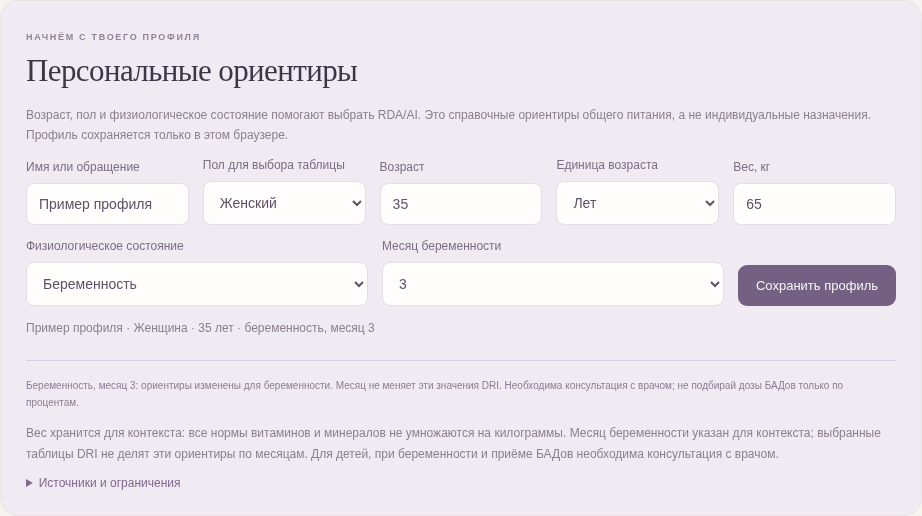
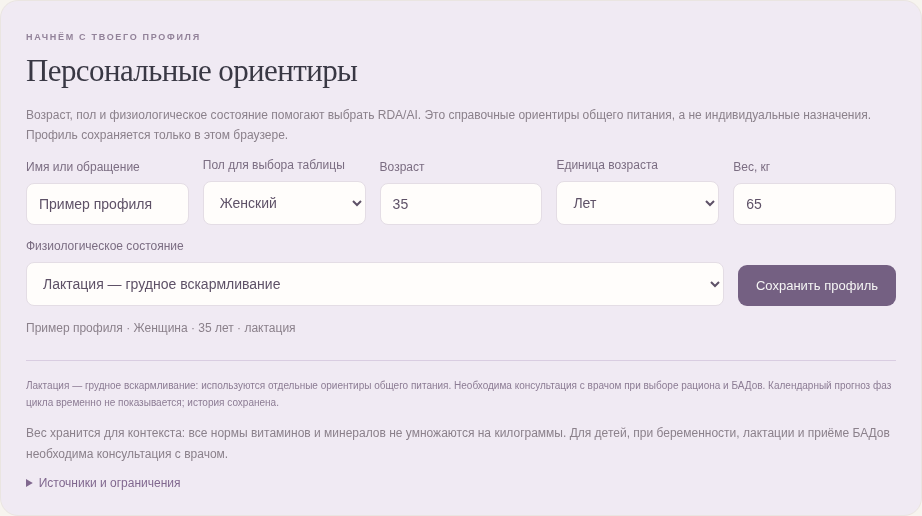
Replace pregnancy month with lactation profile and dietary references

diff --git a/app.js b/app.js
@@ -23,7 +23,7 @@ $('#today').textContent=new Date().toLocaleDateString('ru',{weekday:'long',day:'
 $('#period-start').max=today;$('#period-start').value=today;$('#food-date').value=today;
 $('#cycle-length').value=state.cycleLength;$('#period-length').value=state.periodLength;
 const phases={menstrual:{name:'Менструация',food:'Включай источники железа: бобовые, мясо, зелень. Витамин C помогает усвоению растительного железа.',move:'Прогулка, мягкая растяжка или привычная тренировка по самочувствию. Отдых тоже подходит.',care:'Замечай боль, интенсивность кровотечения и усталость. Сильная боль не должна становиться привычной.'},follicular:{name:'Фолликулярная фаза',food:'Разнообразный рацион: овощи, цельные злаки, белок и полезные жиры. Специальная диета по фазе не обязательна.',move:'Если энергии достаточно, постепенно увеличивай нагрузку. Выбирай то, что нравится.',care:'Отмечай изменения энергии и настроения — твой личный опыт полезнее универсального расписания.'},ovulation:{name:'Овуляция · ориентировочно',food:'Продолжай привычное сбалансированное питание и пей по жажде. Особые продукты для овуляции не нужны.',move:'Ориентируйся на восстановление и привычный уровень нагрузки. Фаза сама по себе не требует рекордов.',care:'Это только оценка по длине цикла, а не подтверждённая овуляция или надёжное «фертильное окно».'},luteal:{name:'Лютеиновая фаза',food:'Регулярные приёмы пищи, клетчатка и белок помогают насыщению. Допустимо учитывать изменения аппетита.',move:'При усталости снизь интенсивность, выбери ходьбу, йогу или отдых. Если чувствуешь себя хорошо, сохраняй обычную активность.',care:'Отмечай сон, настроение и симптомы ПМС. Если они мешают обычной жизни, обсуди это с врачом.'}};
-function phaseAt(date){if(state.profile?.status==='pregnant')return null;const starts=state.periods.filter(s=>s<=date).sort();if(!starts.length)return null;const base=starts.at(-1);const elapsed=dayDiff(date,base);const day=elapsed%state.cycleLength+1;const ov=Math.max(state.periodLength+2,state.cycleLength-14);const key=day<=state.periodLength?'menstrual':day<ov-1?'follicular':day<=ov+1?'ovulation':'luteal';return {key,day,projected:elapsed>=state.cycleLength};}
+function phaseAt(date){if(['pregnant','lactating'].includes(state.profile?.status))return null;const starts=state.periods.filter(s=>s<=date).sort();if(!starts.length)return null;const base=starts.at(-1);const elapsed=dayDiff(date,base);const day=elapsed%state.cycleLength+1;const ov=Math.max(state.periodLength+2,state.cycleLength-14);const key=day<=state.periodLength?'menstrual':day<ov-1?'follicular':day<=ov+1?'ovulation':'luteal';return {key,day,projected:elapsed>=state.cycleLength};}
 function textEl(tag,text,cls){const el=document.createElement(tag);el.textContent=text;if(cls)el.className=cls;return el;}
 function removeButton(label,fn){const b=textEl('button','×');b.type='button';b.setAttribute('aria-label',label);b.onclick=fn;return b;}
 function renderCycle(){
@@ -166,13 +166,13 @@ function renderSupplements(){const date=$('#food-date').value;const records=stat
 
 function profileAge(p=state.profile){return LunaDRI.ageYears(p);}
 function reference(key,p=state.profile){return LunaDRI.get(key,p);}
-function profileLabel(){const p=state.profile;if(!p)return 'Профиль не заполнен';const age=profileAge();const stage=age<1?'Младенец':age<14?'Ребёнок':age<19?'Подросток':p.sex==='male'?'Мужчина':'Женщина';return `${p.name} · ${stage} · ${p.age} ${p.ageUnit==='months'?'мес.':'лет'}${p.status==='pregnant'?` · беременность, месяц ${p.month}`:p.status==='planning'?' · планирование беременности':''}`;}
-function updateProfileFields(){const sex=$('#profile-sex').value;const age=Number($('#profile-age').value);const years=$('#profile-age-unit').value==='months'?age/12:age;const reproductive=sex==='female'&&years>=10;$('#profile-status-label').hidden=!reproductive;if(!reproductive)$('#profile-status').value='none';const pregnant=reproductive&&$('#profile-status').value==='pregnant';$('#profile-month-label').hidden=!pregnant;$('#profile-month').required=pregnant;$('#profile-age').max=$('#profile-age-unit').value==='months'?'23':'120';}
-if(state.profile){for(const [key,id]of [['name','name'],['sex','sex'],['age','age'],['ageUnit','age-unit'],['weight','weight'],['status','status'],['month','month']]){const input=$('#profile-'+id);if(state.profile[key]!==undefined&&state.profile[key]!==null)input.value=state.profile[key];}}
+function profileLabel(){const p=state.profile;if(!p)return 'Профиль не заполнен';const age=profileAge();const stage=age<1?'Младенец':age<14?'Ребёнок':age<19?'Подросток':p.sex==='male'?'Мужчина':'Женщина';return `${p.name} · ${stage} · ${p.age} ${p.ageUnit==='months'?'мес.':'лет'}${p.status==='pregnant'?' · беременность':p.status==='lactating'?' · лактация':p.status==='planning'?' · планирование беременности':''}`;}
+function updateProfileFields(){const sex=$('#profile-sex').value;const age=Number($('#profile-age').value);const years=$('#profile-age-unit').value==='months'?age/12:age;const reproductive=sex==='female'&&years>=10;$('#profile-status-label').hidden=!reproductive;if(!reproductive)$('#profile-status').value='none';$('#profile-age').max=$('#profile-age-unit').value==='months'?'23':'120';}
+if(state.profile){for(const [key,id]of [['name','name'],['sex','sex'],['age','age'],['ageUnit','age-unit'],['weight','weight'],['status','status']]){const input=$('#profile-'+id);if(state.profile[key]!==undefined&&state.profile[key]!==null)input.value=state.profile[key];}}
 for(const id of ['sex','age','age-unit','status'])$('#profile-'+id).addEventListener('change',updateProfileFields);updateProfileFields();
-$('#profile-form').onsubmit=e=>{e.preventDefault();const profile={name:$('#profile-name').value.trim(),sex:$('#profile-sex').value,age:Number($('#profile-age').value),ageUnit:$('#profile-age-unit').value,weight:Number($('#profile-weight').value),status:$('#profile-status').value,month:$('#profile-month').value?Number($('#profile-month').value):null,updated:today};let error='';const age=LunaDRI.ageYears(profile);if(!profile.name||age===null||!['female','male'].includes(profile.sex)||!Number.isFinite(profile.weight)||profile.weight<=0||profile.weight>500)error='Проверь имя, пол, возраст и вес. Для ребёнка младше года укажи возраст в месяцах.';if(profile.sex!=='female'||age<10){profile.status='none';profile.month=null;}if(profile.status==='pregnant'&&(!Number.isInteger(profile.month)||profile.month<1||profile.month>9))error='Укажи месяц беременности от 1 до 9.';if(profile.status!=='pregnant')profile.month=null;$('#profile-error').textContent=error;if(error)return;state.profile=profile;save();};
-function renderProfile(){const p=state.profile;$('#profile-summary').textContent=p?profileLabel():'Заполни анкету, чтобы увидеть персональные ориентиры. Без профиля проценты не рассчитываются.';$('#nutrition-profile-context').textContent=p?`${profileLabel()}. Ориентиры RDA/AI общего поступления из еды и БАДов. К дневнику любого дня применяется текущий профиль.`:'Без анкеты показываем количество нутриентов, без предположений о возрасте, поле и без процентов.';let advice='Для выбора БАДов и индивидуальных доз необходима консультация с врачом. RDA/AI не являются верхними допустимыми уровнями.';if(p){const age=profileAge();if(p.status==='pregnant')advice=age<14||age>50?'Для этого возраста беременности автоматические ориентиры не назначаются. Необходима консультация с врачом.':`Беременность, месяц ${p.month}: ориентиры изменены для беременности. Месяц не меняет эти значения DRI. Необходима консультация с врачом; не подбирай дозы БАДов только по процентам.`;else if(p.status==='planning')advice='Планирование беременности: используются ориентиры для небеременных. Обсуди фолаты, йод и принимаемые добавки с врачом до беременности; не применяй нормы беременности заранее.';else if(age<1)advice='Для младенца показаны доступные RDA/AI по возрасту в месяцах. Прикорм, рацион и любые добавки требуют консультации с педиатром. Если ориентир не установлен, процента нет.';else if(age<19)advice='Используются возрастные ориентиры ребёнка или подростка. Рацион и приём добавок необходимо обсуждать с педиатром; взрослые нормы не применяются.';}
- $('#profile-advice').textContent=advice;const cycleVisible=!p||(p.sex==='female'&&profileAge()>=9&&p.status!=='pregnant');$('#cycle').hidden=!cycleVisible;document.querySelector('nav a[href="#cycle"]').hidden=!cycleVisible;document.querySelector('.overview a[href="#cycle"]').hidden=!cycleVisible;}
+$('#profile-form').onsubmit=e=>{e.preventDefault();const profile={name:$('#profile-name').value.trim(),sex:$('#profile-sex').value,age:Number($('#profile-age').value),ageUnit:$('#profile-age-unit').value,weight:Number($('#profile-weight').value),status:$('#profile-status').value,updated:today};let error='';const age=LunaDRI.ageYears(profile);if(!profile.name||age===null||!['female','male'].includes(profile.sex)||!Number.isFinite(profile.weight)||profile.weight<=0||profile.weight>500)error='Проверь имя, пол, возраст и вес. Для ребёнка младше года укажи возраст в месяцах.';if(profile.sex!=='female'||age<10){profile.status='none';}$('#profile-error').textContent=error;if(error)return;state.profile=profile;save();};
+function renderProfile(){const p=state.profile;$('#profile-summary').textContent=p?profileLabel():'Заполни анкету, чтобы увидеть персональные ориентиры. Без профиля проценты не рассчитываются.';$('#nutrition-profile-context').textContent=p?`${profileLabel()}. Ориентиры RDA/AI общего поступления из еды и БАДов. К дневнику любого дня применяется текущий профиль.`:'Без анкеты показываем количество нутриентов, без предположений о возрасте, поле и без процентов.';let advice='Для выбора БАДов и индивидуальных доз необходима консультация с врачом. RDA/AI не являются верхними допустимыми уровнями.';if(p){const age=profileAge();if(p.status==='pregnant')advice=age<14||age>50?'Для этого возраста беременности автоматические ориентиры не назначаются. Необходима консультация с врачом.':'Беременность: используются отдельные ориентиры общего питания. Необходима консультация с врачом; не подбирай дозы БАДов только по процентам.';else if(p.status==='lactating')advice=age<14||age>50?'Для этого возраста при лактации автоматические ориентиры не назначаются. Необходима консультация с врачом.':'Лактация — грудное вскармливание: используются отдельные ориентиры общего питания. Необходима консультация с врачом при выборе рациона и БАДов. Календарный прогноз фаз цикла временно не показывается; история сохранена.';else if(p.status==='planning')advice='Планирование беременности: используются ориентиры для небеременных. Обсуди фолаты, йод и принимаемые добавки с врачом до беременности; не применяй нормы беременности заранее.';else if(age<1)advice='Для младенца показаны доступные RDA/AI по возрасту в месяцах. Прикорм, рацион и любые добавки требуют консультации с педиатром. Если ориентир не установлен, процента нет.';else if(age<19)advice='Используются возрастные ориентиры ребёнка или подростка. Рацион и приём добавок необходимо обсуждать с педиатром; взрослые нормы не применяются.';}
+ $('#profile-advice').textContent=advice;const cycleVisible=!p||(p.sex==='female'&&profileAge()>=9&&!['pregnant','lactating'].includes(p.status));$('#cycle').hidden=!cycleVisible;document.querySelector('nav a[href="#cycle"]').hidden=!cycleVisible;document.querySelector('.overview a[href="#cycle"]').hidden=!cycleVisible;}
 function renderSalt(entries,foodTotals,unknown,date){const supplements=dailySupplementTotals(date);const sodium=foodTotals.sodium+supplements.totals.sodium;const missing=unknown.sodium>0||supplements.unconverted.sodium>0;const allUnknown=entries.length>0&&unknown.sodium===entries.length&&supplements.totals.sodium===0;const text=allUnknown?'Нет данных о натрии для расчёта соли':`${numeric(sodium*2.5/1000)} г${missing?' + ?':''}`;const box=$('#salt-summary');box.replaceChildren(textEl('strong','Соль · натрий и хлориды'),textEl('div',`Солевой эквивалент по известному натрию: ${text}.`),textEl('div','1 г натрия ≈ 2,5 г солевого эквивалента. Натрий и хлориды не складываются и не считаются автоматически чистым NaCl.'));if(profileAge()>=18)box.append(textEl('div','Ориентир ВОЗ для взрослых — менее 5 г соли в сутки; это ограничение, а не цель потребления.'));else if(state.profile)box.append(textEl('div','Взрослый предел соли не применяется к ребёнку. Питание ребёнка обсуждай с педиатром.'));}
 
 $('#water-container').value=state.waterSettings.container;

diff --git a/index.html b/index.html
@@ -1,7 +1,7 @@
 <!doctype html>
 <html lang="ru"><head><meta charset="utf-8"><meta name="viewport" content="width=device-width, initial-scale=1"><meta name="theme-color" content="#f7f4ef"><meta name="description" content="Луна — дневник цикла, сна и питания"><link rel="manifest" href="./manifest.webmanifest"><link rel="icon" href="./icon.svg"><link rel="apple-touch-icon" href="./icon-192.png"><link rel="stylesheet" href="./style.css"><title>Луна — в своём ритме</title></head>
 <body><div class="layout"><aside class="sidebar"><a class="logo" href="#home"><span>☾</span> луна<span class="logo-dot">.</span></a><p class="tagline">В СВОЁМ РИТМЕ</p><nav aria-label="Разделы"><a href="#home">◌ <span>Мой день</span></a><a href="#cycle">✿ <span>Мой цикл</span></a><a href="#sleep">☾ <span>Сон и отдых</span></a><a href="#food">♧ <span>Питание</span></a></nav><div class="sidebar-note">Место, где можно<br>прислушаться к себе.<span>Твои данные остаются<br>в этом браузере.</span></div></aside>
-<main id="home"><header><span id="today"></span><span class="badge" id="connection">На связи</span></header><section id="profile" class="card profile-card"><span class="eyebrow">НАЧНЁМ С ТВОЕГО ПРОФИЛЯ</span><h2>Персональные ориентиры</h2><p class="fine">Возраст, пол и физиологическое состояние помогают выбрать RDA/AI. Это справочные ориентиры общего питания, а не индивидуальные назначения. Профиль сохраняется только в этом браузере.</p><form id="profile-form"><label>Имя или обращение<input id="profile-name" maxlength="60" required autocomplete="given-name"></label><label>Пол для выбора таблицы<select id="profile-sex" required><option value="">Выбрать</option><option value="female">Женский</option><option value="male">Мужской</option></select></label><label>Возраст<input id="profile-age" type="number" min="0" max="120" step="1" required></label><label>Единица возраста<select id="profile-age-unit"><option value="years">Лет</option><option value="months">Месяцев (до 2 лет)</option></select></label><label>Вес, кг<input id="profile-weight" type="number" min="0.1" max="500" step="0.1" required></label><label id="profile-status-label" hidden>Физиологическое состояние<select id="profile-status"><option value="none">Не беременна</option><option value="planning">Планирование беременности</option><option value="pregnant">Беременность</option></select></label><label id="profile-month-label" hidden>Месяц беременности<select id="profile-month"><option value="">Выбрать</option><option>1</option><option>2</option><option>3</option><option>4</option><option>5</option><option>6</option><option>7</option><option>8</option><option>9</option></select></label><button type="submit">Сохранить профиль</button></form><p id="profile-error" class="error" role="alert"></p><p id="profile-summary" class="fine" role="status">Заполни анкету, чтобы увидеть персональные ориентиры. Без профиля проценты не рассчитываются.</p><p id="profile-advice" class="callout"></p><p class="fine">Вес хранится для контекста: все нормы витаминов и минералов не умножаются на килограммы. Месяц беременности указан для контекста; выбранные таблицы DRI не делят эти ориентиры по месяцам. Для детей, при беременности и приёме БАДов необходима консультация с врачом.</p><details><summary>Источники и ограничения</summary><p class="fine">Справочные таблицы DRI (RDA/AI), для натрия и калия — обновление 2019 года. Это не верхние допустимые уровни и не лабораторная оценка обеспеченности. Для беременности вне диапазона 14–50 лет автоматические ориентиры не назначаются. Показатели питания не заменяют медицинское наблюдение. Лактация, заболевания, курение и индивидуальные назначения в этой версии не учитываются.</p><a class="text-link" href="https://ods.od.nih.gov/HealthInformation/nutrientrecommendations.aspx" target="_blank" rel="noopener">Таблицы DRI ↗</a></details></section>
+<main id="home"><header><span id="today"></span><span class="badge" id="connection">На связи</span></header><section id="profile" class="card profile-card"><span class="eyebrow">НАЧНЁМ С ТВОЕГО ПРОФИЛЯ</span><h2>Персональные ориентиры</h2><p class="fine">Возраст, пол и физиологическое состояние помогают выбрать RDA/AI. Это справочные ориентиры общего питания, а не индивидуальные назначения. Профиль сохраняется только в этом браузере.</p><form id="profile-form"><label>Имя или обращение<input id="profile-name" maxlength="60" required autocomplete="given-name"></label><label>Пол для выбора таблицы<select id="profile-sex" required><option value="">Выбрать</option><option value="female">Женский</option><option value="male">Мужской</option></select></label><label>Возраст<input id="profile-age" type="number" min="0" max="120" step="1" required></label><label>Единица возраста<select id="profile-age-unit"><option value="years">Лет</option><option value="months">Месяцев (до 2 лет)</option></select></label><label>Вес, кг<input id="profile-weight" type="number" min="0.1" max="500" step="0.1" required></label><label id="profile-status-label" hidden>Физиологическое состояние<select id="profile-status"><option value="none">Не беременна</option><option value="planning">Планирование беременности</option><option value="pregnant">Беременность</option><option value="lactating">Лактация — грудное вскармливание</option></select></label><button type="submit">Сохранить профиль</button></form><p id="profile-error" class="error" role="alert"></p><p id="profile-summary" class="fine" role="status">Заполни анкету, чтобы увидеть персональные ориентиры. Без профиля проценты не рассчитываются.</p><p id="profile-advice" class="callout"></p><p class="fine">Вес хранится для контекста: все нормы витаминов и минералов не умножаются на килограммы. Для детей, при беременности, лактации и приёме БАДов необходима консультация с врачом.</p><details><summary>Источники и ограничения</summary><p class="fine">Справочные таблицы DRI (RDA/AI), для натрия и калия — обновление 2019 года. Это не верхние допустимые уровни и не лабораторная оценка обеспеченности. Для беременности и лактации вне диапазона 14–50 лет автоматические ориентиры не назначаются. Показатели питания не заменяют медицинское наблюдение. Заболевания, курение и индивидуальные назначения в этой версии не учитываются.</p><a class="text-link" href="https://ods.od.nih.gov/HealthInformation/nutrientrecommendations.aspx" target="_blank" rel="noopener">Таблицы DRI ↗</a></details></section>
 <section class="welcome"><span class="eyebrow">НЕМНОГО ВНИМАНИЯ К СЕБЕ</span><h1>Твой ритм.<br>Твоё самочувствие<span>.</span></h1><p>Наблюдай за своим телом — бережно, без спешки и ожиданий.</p></section>
 <div class="overview"><a href="#cycle" class="mini pink"><span>МОЙ ЦИКЛ →</span><strong id="cycle-summary">Познакомимся?</strong><p id="cycle-sub">Отметь начало последней менструации</p></a><a href="#sleep" class="mini lavender"><span>СОН И ОТДЫХ →</span><strong id="sleep-summary">Время отдохнуть</strong><p id="sleep-sub">Ночной сон и маленькие паузы днём</p></a><a href="#food" class="mini green"><span>ПИТАНИЕ →</span><strong id="food-summary">Забота в тарелке</strong><p>Питательные вещества, а не строгие правила</p></a></div>
 <section id="cycle" class="section"><div class="section-title"><div><span class="eyebrow">01 / ПРИСЛУШАТЬСЯ К ТЕЛУ</span><h2>Мой цикл</h2></div><span class="pill">Каждый цикл индивидуален</span></div><div class="cycle-grid"><article class="card"><div class="calendar-title"><button id="prev-month" aria-label="Предыдущий месяц" class="icon-button">←</button><h3 id="month-title"></h3><button id="next-month" aria-label="Следующий месяц" class="icon-button">→</button></div><div class="weekdays" aria-hidden="true"><span>ПН</span><span>ВТ</span><span>СР</span><span>ЧТ</span><span>ПТ</span><span>СБ</span><span>ВС</span></div><div id="calendar" class="calendar" aria-label="Календарь цикла"></div><div class="legend"><span><i class="menstrual"></i>Менструация</span><span><i class="follicular"></i>Фолликулярная</span><span><i class="ovulation"></i>Овуляция ≈</span><span><i class="luteal"></i>Лютеиновая</span></div><p class="fine">Цвета — расчётная схема, а не подтверждение фаз. Менструация биологически входит в фолликулярную фазу.</p></article><article class="card phase-card"><span class="eyebrow" id="selected-date"></span><h3 id="phase-title">У каждого тела свой ритм</h3><p id="phase-description">Добавь дату начала менструации. Здесь появятся примерный день цикла и мягкие подсказки.</p><div id="phase-tips"></div><div class="callout">Прогноз по датам не подтверждает овуляцию и не подходит для контрацепции. При нерегулярном цикле, беременности и гормональной контрацепции он может быть неприменим.</div></article></div>

diff --git a/norms.js b/norms.js
@@ -40,9 +40,11 @@
  };
  // Pregnancy columns: 14–18, 19–30, 31–50. These references do not vary by month.
  const pregnancy={calcium:[1300,1000,1000],magnesium:[400,350,360],potassium:[2600,2900,2900],phosphorus:[1250,700,700],iron:[27,27,27],zinc:[12,11,11],c:[80,85,85],b12:[2.6,2.6,2.6],folate:[600,600,600],fiber:[28,28,28],a:[750,770,770],d:[15,15,15],e:[15,15,15],k:[75,90,90],b1:[1.4,1.4,1.4],b2:[1.4,1.4,1.4],b3:[18,18,18],b5:[6,6,6],b6:[1.9,1.9,1.9],iodine:[220,220,220],copper:[1000,1000,1000],manganese:[2,2,2],selenium:[60,60,60],choline:[450,450,450],sodium:[1500,1500,1500],chloride:[2300,2300,2300],fluoride:[3,3,3],molybdenum:[50,50,50],chromium:[29,30,30],ala:[1.4,1.4,1.4],la:[13,13,13],biotin:[30,30,30]};
+ // Lactation columns: 14–18, 19–30, 31–50 years; not supplement doses.
+ const lactation={calcium:[1300,1000,1000],magnesium:[360,310,320],potassium:[2500,2800,2800],phosphorus:[1250,700,700],iron:[10,9,9],zinc:[13,12,12],c:[115,120,120],b12:[2.8,2.8,2.8],folate:[500,500,500],fiber:[29,29,29],a:[1200,1300,1300],d:[15,15,15],e:[19,19,19],k:[75,90,90],b1:[1.4,1.4,1.4],b2:[1.6,1.6,1.6],b3:[17,17,17],b5:[7,7,7],b6:[2,2,2],iodine:[290,290,290],copper:[1300,1300,1300],manganese:[2.6,2.6,2.6],selenium:[70,70,70],choline:[550,550,550],sodium:[1500,1500,1500],chloride:[2300,2300,2300],fluoride:[3,3,3],molybdenum:[50,50,50],chromium:[44,45,45],ala:[1.3,1.3,1.3],la:[13,13,13],biotin:[35,35,35]};
  const ai=new Set(['fiber','k','b5','biotin','potassium','sodium','chloride','fluoride','chromium','manganese','choline','ala','la']);
  function ageYears(p){if(!p||!Number.isInteger(p.age)||p.age<0||!['years','months'].includes(p.ageUnit))return null;if(p.ageUnit==='months')return p.age<=23?p.age/12:null;return p.age>=1&&p.age<=120?p.age:null;}
  function group(p){const age=ageYears(p);if(age===null||!['female','male'].includes(p.sex))return null;if(age<1)return p.age<=6?0:1;return age<4?2:age<9?3:age<14?4:age<19?5:age<31?6:age<51?7:age<71?8:9;}
- function get(key,p){const g=group(p);if(g===null||!rows[key]||(key==='b3'&&g===0))return null;let value;if(p.status==='pregnant'){const age=ageYears(p);if(p.sex!=='female'||age<14||age>50)return null;value=pregnancy[key]?.[age<19?0:age<31?1:2]??null;}else{const raw=rows[key][g];value=Array.isArray(raw)?raw[p.sex==='male'?0:1]:raw;}if(value===null||value===undefined)return null;return {value,type:g===0||(g===1&&!['iron','zinc'].includes(key))||ai.has(key)?'AI':'RDA'};}
- globalThis.LunaDRI=Object.freeze({get,ageYears,group,keys:Object.freeze(Object.keys(rows)),version:'DRI-reference-v1-NaK2019'});
+ function get(key,p){const g=group(p);if(g===null||!rows[key]||(key==='b3'&&g===0)||!['none','planning','pregnant','lactating'].includes(p.status??'none'))return null;let value;if(['pregnant','lactating'].includes(p.status)){const age=ageYears(p);if(p.sex!=='female'||age<14||age>50)return null;value=(p.status==='pregnant'?pregnancy:lactation)[key]?.[age<19?0:age<31?1:2]??null;}else{const raw=rows[key][g];value=Array.isArray(raw)?raw[p.sex==='male'?0:1]:raw;}if(value===null||value===undefined)return null;return {value,type:g===0||(g===1&&!['iron','zinc'].includes(key))||ai.has(key)?'AI':'RDA'};}
+ globalThis.LunaDRI=Object.freeze({get,ageYears,group,keys:Object.freeze(Object.keys(rows)),version:'DRI-reference-v2-NaK2019-lactation'});
 })();

diff --git a/sw.js b/sw.js
@@ -1,4 +1,4 @@
-const CACHE='luna-diary-v8';
+const CACHE='luna-diary-v9';
 const ASSETS=['./','./index.html','./style.css','./app.js','./norms.js','./manifest.webmanifest','./icon.svg','./icon-192.png','./icon-512.png'];
 self.addEventListener('install',event=>{event.waitUntil(caches.open(CACHE).then(cache=>cache.addAll(ASSETS)).then(()=>self.skipWaiting()));});
 self.addEventListener('activate',event=>{event.waitUntil(caches.keys().then(keys=>Promise.all(keys.filter(key=>(key.startsWith('little-steps-')||key.startsWith('luna-diary-'))&&key!==CACHE).map(key=>caches.delete(key)))).then(()=>self.clients.claim()));});

diff --git a/tests/supplements_smoke.py b/tests/supplements_smoke.py
@@ -27,11 +27,17 @@ with sync_playwright() as p:
  for key in ['ala','la','omega6','epa','dha']:
   assert page.locator(f'#supplement-nutrient option[value="{key}"]').count()==0
  assert page.locator('#supplement-nutrient option[value="omega3"]').count()==1
- def profile(age,sex='female',status='none',month=None,unit='years'):
+ assert page.locator('#profile-month').count()==0
+ page.evaluate("state.profile={name:'Прежний профиль',sex:'female',age:35,ageUnit:'years',weight:64,status:'pregnant',month:3};save()")
+ page.reload()
+ assert page.locator('#profile-status').input_value()=='pregnant'
+ assert page.locator('#profile-weight').input_value()=='64'
+ assert 'месяц' not in page.locator('#profile-summary').inner_text()
+ assert page.locator('#profile-month').count()==0
+ def profile(age,sex='female',status='none',unit='years'):
   page.locator('#profile-name').fill('Тестовый профиль');page.locator('#profile-age-unit').select_option(unit);page.locator('#profile-age').fill(str(age));page.locator('#profile-age').dispatch_event('change');page.locator('#profile-sex').select_option(sex);page.locator('#profile-weight').fill('60' if unit=='years' else '7.5')
   if sex=='female' and unit=='years' and age>=10:
    page.locator('#profile-status').select_option(status)
-   if status=='pregnant':page.locator('#profile-month').select_option(str(month))
   page.locator('#profile-form button').click()
  def norm(key):return page.evaluate('(key)=>reference(key)?.value??null',key)
  profile(35)
@@ -44,15 +50,27 @@ with sync_playwright() as p:
  assert not page.locator('#cycle').is_visible()
  profile(35,status='planning');assert norm('folate')==400
  assert 'до беременности' in page.locator('#profile-advice').inner_text()
- profile(35,status='pregnant',month=3)
+ profile(35,status='pregnant')
  assert norm('potassium')==2900 and norm('magnesium')==360 and norm('iron')==27 and norm('folate')==600
  assert not page.locator('#cycle').is_visible() and page.evaluate('phaseAt(today)') is None
- first=page.evaluate('LunaDRI.keys.map(key=>reference(key))')
- profile(35,status='pregnant',month=9)
- assert first==page.evaluate('LunaDRI.keys.map(key=>reference(key))')
- profile(17,status='pregnant',month=2)
+ assert page.evaluate('!Object.hasOwn(state.profile,"month")')
+ profile(35,status='lactating')
+ assert norm('potassium')==2800 and norm('iron')==9 and norm('iodine')==290 and norm('choline')==550 and norm('folate')==500
+ assert 'Лактация' in page.locator('#profile-advice').inner_text() and 'консультация' in page.locator('#profile-advice').inner_text()
+ assert not page.locator('#cycle').is_visible() and page.evaluate('phaseAt(today)') is None
+ assert page.locator('#profile-month').count()==0
+ page.reload()
+ assert page.locator('#profile-status').input_value()=='lactating' and norm('potassium')==2800
+ profile(17,status='lactating')
+ assert norm('potassium')==2500 and norm('calcium')==1300 and norm('iron')==10
+ profile(13,status='lactating')
+ assert norm('iron') is None and 'не назначаются' in page.locator('#profile-advice').inner_text()
+ profile(35,'male')
+ assert not page.locator('#profile-status-label').is_visible() and page.evaluate('state.profile.status')=='none'
+
+ profile(17,status='pregnant')
  assert norm('phosphorus')==1250 and norm('calcium')==1300 and norm('magnesium')==400
- profile(13,status='pregnant',month=2)
+ profile(13,status='pregnant')
  assert norm('iron') is None and 'не назначаются' in page.locator('#profile-advice').inner_text()
  profile(5);assert norm('potassium')==2300 and norm('phosphorus')==500 and norm('sodium')==1000
  assert not page.locator('#profile-status-label').is_visible()
@@ -61,7 +79,7 @@ with sync_playwright() as p:
  assert 'Взрослый предел' in page.locator('#salt-summary').inner_text()
  profile(71);assert norm('d')==20 and norm('calcium')==1200
  profile(35)
- print('PASS: profile questionnaire, child/infant/teen/adult/elderly/pregnancy references, planning, month-independent DRI, unsupported pregnancy ages, cycle suppression')
+ print('PASS: profile questionnaire, child/infant/teen/adult/elderly/pregnancy references, planning, lactation, legacy profile migration, removed month field, unsupported states, cycle suppression')
  # Archive fields must remain stored when editing a product under the new filtered schema.
  page.get_by_role('button',name='Изменить Прежний продукт',exact=True).click();page.locator('#product-name').fill('Прежний продукт — обновлён');page.locator('#product-save').click()
  assert page.evaluate('state.products[0].sugars')==2
@@ -100,13 +118,14 @@ with sync_playwright() as p:
  page.locator('#supplement-nutrient').select_option('d');page.locator('#supplement-dose').fill('600');page.locator('#supplement-unit').select_option('iu');page.locator('#supplement-form button').click()
  assert '15 / 15 мкг · 100%' in row('d').inner_text()
  assert page.locator('#supplement-history .record').count()==3
+ profile(35,status='lactating')
  with page.expect_download() as download:page.locator('#export-data').click()
  data=json.loads(Path(download.value.path()).read_text())
- assert data['profile']['age']==35 and len(data['supplements'])==4
+ assert data['profile']['age']==35 and data['profile']['status']=='lactating' and 'month' not in data['profile'] and len(data['supplements'])==4
  assert data['supplements'][0]['id']=='old-omega6'
  ctx.set_offline(True);page.reload()
  assert page.locator('#connection').inner_text()=='Без интернета'
- assert norm('potassium')==2600 and page.locator('#profile-name').input_value()=='Тестовый профиль'
+ assert norm('potassium')==2800 and page.locator('#profile-status').input_value()=='lactating' and page.locator('#profile-name').input_value()=='Тестовый профиль'
  assert page.locator('#supplement-history .record').count()==3
  page.locator('#supplement-history .record').first.locator('button').click()
  assert '0 / 1.1 г' in row('ala').inner_text() or 'Нет данных' in row('ala').inner_text()

diff --git a/README.md b/README.md
@@ -4,11 +4,11 @@
 
 ## Личный профиль и нормы
 
-В начале страницы анкета: имя/обращение, пол для выбора таблиц DRI, возраст в годах или месяцах (до 2 лет), вес. Для женского пола от 10 лет доступны состояния «не беременна», «планирование беременности», «беременность» и месяц 1–9. У младенца нужно указать возраст в месяцах. Профиль сохраняется локально. Без профиля показываются количества, без персональных процентов.
+В начале страницы анкета: имя/обращение, пол для выбора таблиц DRI, возраст в годах или месяцах (до 2 лет), вес. Для женского пола от 10 лет доступны состояния «не беременна», «планирование беременности», «беременность», «лактация — грудное вскармливание». У младенца нужно указать возраст в месяцах. Профиль сохраняется локально. Без профиля показываются количества, без персональных процентов.
 
-`norms.js` содержит отдельную справочную реализацию RDA/AI: возрастные группы младенцев, детей, подростков, взрослых и пожилых, разделение по полу, нормы беременности в группах 14–18, 19–30, 31–50 лет. Для натрия и калия используется обновление DRI 2019. Планирование не включает нормы беременности заранее. Для беременности младше 14 или старше 50 лет автоматических ориентиров нет. Витамины/минералы не умножаются автоматически на вес; месяц беременности хранится для контекста, таблицы для выбранных нутриентов не делят беременность по месяцам. При заболеваниях, лактации, курении и индивидуальных назначениях стандартные ориентиры могут не подходить — эти особенности не моделируются.
+`norms.js` содержит отдельную справочную реализацию RDA/AI: возрастные группы младенцев, детей, подростков, взрослых и пожилых, разделение по полу, отдельные нормы беременности и лактации в группах 14–18, 19–30, 31–50 лет. Для натрия и калия используется обновление DRI 2019. Планирование не включает нормы беременности заранее. Для беременности и лактации младше 14 или старше 50 лет автоматических ориентиров нет. Витамины/минералы не умножаются автоматически на вес; поле месяца беременности удалено. Прежнее значение в сохранённом профиле игнорируется и не попадает в новый профиль при сохранении; остальные данные не меняются. При заболеваниях, курении и индивидуальных назначениях стандартные ориентиры могут не подходить — эти особенности не моделируются.
 
-Это ориентиры **общего** поступления из еды и БАДов, не дозировки добавок, не верхние допустимые уровни и не диагностика дефицита. В интерфейсе есть напоминание о необходимости консультации врача, особенно для детей и при беременности. Клинической или независимой медицинской валидации не проводилось. К дневнику любой выбранной даты применяется текущий профиль; исторический возраст/статус беременности по датам не восстанавливается. Возраст необходимо актуализировать в анкете.
+Это ориентиры **общего** поступления из еды и БАДов, не дозировки добавок, не верхние допустимые уровни и не диагностика дефицита. В интерфейсе есть напоминание о необходимости консультации врача, особенно для детей, при беременности и лактации. Клинической или независимой медицинской валидации не проводилось. К дневнику любой выбранной даты применяется текущий профиль; исторический возраст/физиологическое состояние по датам не восстанавливается. Возраст необходимо актуализировать в анкете.
 
 Основной список: 32 нутриента с установленным RDA/AI для хотя бы одной поддержанной группы и инозитол без установленного ориентира. Если для конкретного возраста или совместимых единиц ориентира нет, процент не показывается (например, клетчатка/АЛК у младенца, ниацин в NE до 7 месяцев). Количества без источника не заменяются нулями.
 
@@ -21,7 +21,7 @@
 
 Официальные страницы NIH/Health Canada в текущей среде вернули CONNECT 403. Таблицы реализованы как справочные DRI, их значения открыты для проверки в norms.js; не заявляется актуальная онлайн-проверка всех источников или медицинская сертификация.
 
-Примеры контрольных значений: калий AI 2600 мг у взрослой женщины, 3400 мг у мужчины, 2900 мг при беременности у взрослой женщины, 2600 мг при беременности 14–18 лет; фосфор RDA 700 мг у взрослого, 1250 мг в 9–18 лет (в том числе при беременности в этом возрасте). Возрастные пороги и типы RDA/AI проверены программно на контрольных примерах.
+Примеры контрольных значений: калий AI 2600 мг у взрослой женщины, 3400 мг у мужчины, 2900 мг при беременности у взрослой женщины, 2600 мг при беременности 14–18 лет; фосфор RDA 700 мг у взрослого, 1250 мг в 9–18 лет (в том числе при беременности в этом возрасте). При лактации у взрослой женщины: калий 2800 мг, железо 9 мг, йод 290 мкг, холин 550 мг, фолат 500 мкг DFE. У кормящей девушки 14–18 лет применяются отдельные значения (например, калий 2500 мг и кальций 1300 мг). Это справочные ориентиры общего рациона, не индивидуальные назначения. Возрастные пороги и типы RDA/AI проверены программно на контрольных примерах.
 
 ## Питание, электролиты и соль
 
@@ -46,7 +46,7 @@
 
 ## Другие возможности
 
-- История начала менструаций, настройки длины цикла, календарь предполагаемых фаз и общие подсказки. Расчёт не подтверждает овуляцию, не используется для контрацепции. При беременности расчёт фаз выключен, мужскому профилю и младенцам раздел не показывается. История сохраняется.
+- История начала менструаций, настройки длины цикла, календарь предполагаемых фаз и общие подсказки. Расчёт не подтверждает овуляцию, не используется для контрацепции. При беременности и лактации расчёт фаз выключен, мужскому профилю и младенцам раздел не показывается. История сохраняется.
 - Ночной и дневной сон с обеими датами, проверка пересечений, среднее за 7/30/365 дней по дням с записями. Сон относится к дате пробуждения; дни без данных исключаются. Даты группируются в текущем часовом поясе.
 - Вода: стакан/бутылка с отдельными запоминаемыми объёмами, пресеты и произвольные целые миллилитры; сумма за выбранный день и удаление записей. Автоматическая универсальная цель не назначается.
 - ИИ-анализ еды, полный справочник всех товаров и сканирование камерой не реализованы.
@@ -70,7 +70,7 @@ LUNA_TEST_URL=http://127.0.0.1:8007/Test/ python3 tests/nutrition_water_smoke.py
 LUNA_TEST_URL=http://127.0.0.1:8007/Test/ python3 tests/supplements_smoke.py
 ```
 
-Проверяются контрольные DRI и границы возрастов, профиль и физиологические состояния, соль, калий и фосфор, сохранение архивных данных, один составной приём омега-3, отдельные единицы/нормы, экспорт, удаление, офлайн-перезагрузка с norms.js, сон, цикл, КБЖУ, вода и мобильная вёрстка. Внешний каталог в тестах подменяется фиксированными ответами. Скриншоты в /tmp/luna-check и docs содержат только искусственные тестовые записи.
+Проверяются контрольные DRI и границы возрастов, профиль и физиологические состояния (включая лактацию и перенос прежнего профиля без поля месяца беременности), соль, калий и фосфор, сохранение архивных данных, один составной приём омега-3, отдельные единицы/нормы, экспорт, удаление, офлайн-перезагрузка с norms.js, сон, цикл, КБЖУ, вода и мобильная вёрстка. Внешний каталог в тестах подменяется фиксированными ответами. Скриншоты в /tmp/luna-check и docs содержат только искусственные тестовые записи.
 
 ## Публикация
 
